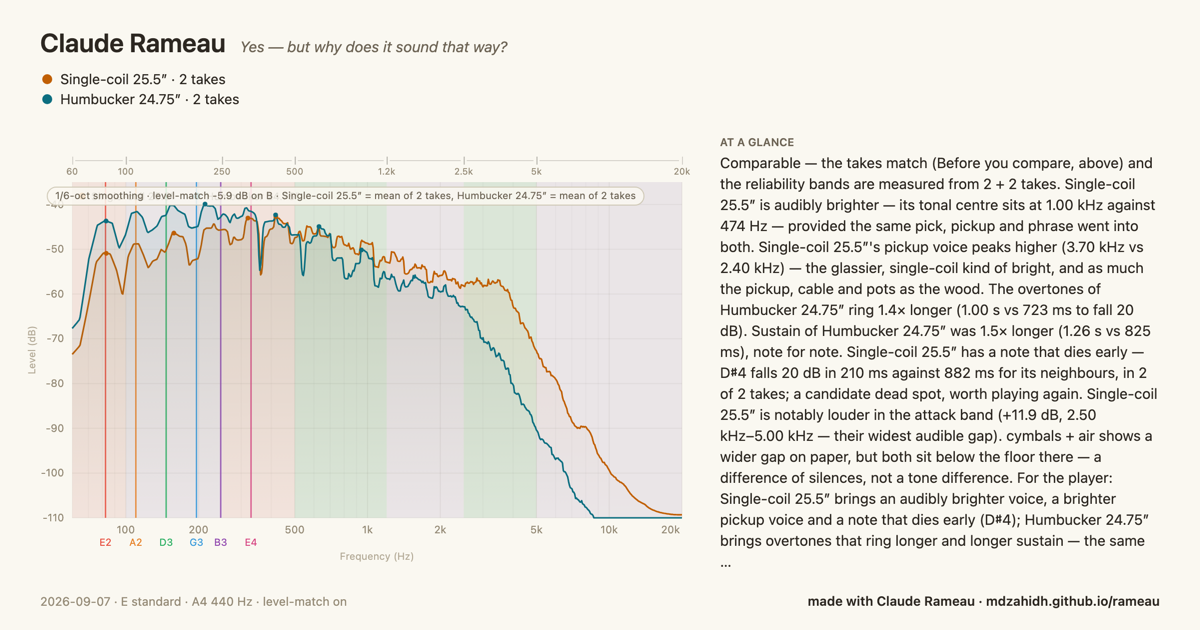
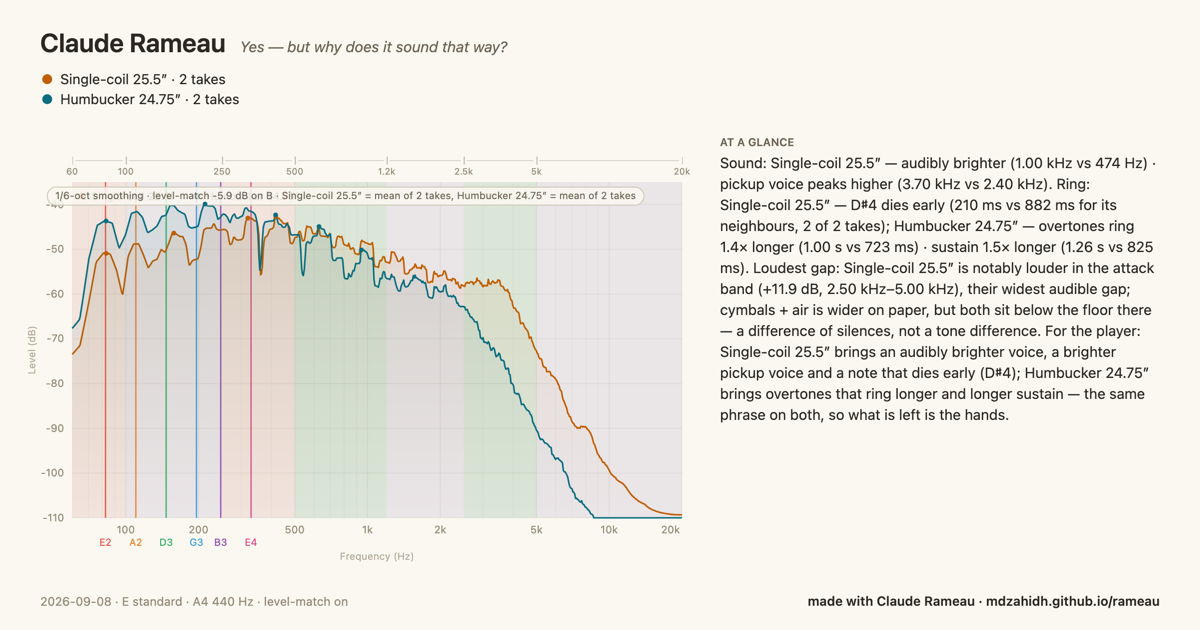
README screenshots re-captured after the At a glance / Before you compare rework; blurb updated to match
Claude-Session: https://claude.ai/code/session_019APqx8WPzi4kFsUDRcxQRU

Changed region(s): [[0.5858, 0.2413, 0.9558, 0.8746], [0.0925, 0.9349, 0.3083, 0.9651]]

diff --git a/README.md b/README.md
@@ -16,13 +16,15 @@ words, and never uploaded: the whole app is one HTML file that runs in your brow
 guitars — same picking, same amp, same cable, same room — and drop one recording on each
 card. Because you and the phrase stay the same, what the plots show is the guitar.
 
-- **Before you compare** says whether the two takes are a fair pair (register, note count,
-  level, noise floor, recording path) and whether the strings and scale differ — so a
-  difference below can be read as the guitar and not as the take.
-- **At a glance** puts it in one paragraph: *Sustain of the Les Paul was 1.6× longer (1.55 s
-  vs 900 ms), note for note. The SG is audibly brighter — its tonal centre sits at 658 Hz
-  against 486 Hz.* Every sentence stands on a measured difference that cleared its own
-  reliability band; when nothing does, it says so.
+- **Before you compare** ticks off what the two recordings share — register, note count,
+  level, noise floor, recording path — whether the strings and scale differ, and whether the
+  reliability bands are measured yet, so a difference below can be read as the guitar and not
+  as the take.
+- **At a glance** answers in sections, one line each: *Sound* (*Single-coil — audibly brighter
+  (1.00 kHz vs 474 Hz) · pickup voice peaks higher (3.70 vs 2.40 kHz)*), *Ring* (*Humbucker —
+  overtones ring 1.4× longer · sustain 1.5× longer*), the loudest gap, and what it adds up to
+  for the player. Every item stands on a measured difference that cleared its own reliability
+  band; the details sit one click away.
 - **Spectrum and difference** — long-term average spectra with named regions, band energies,
   and a matched-EQ suggestion drawn on the face of a real device.
 - **Spectrograms and envelopes** — with a harmonic overlay that predicts where each string's
